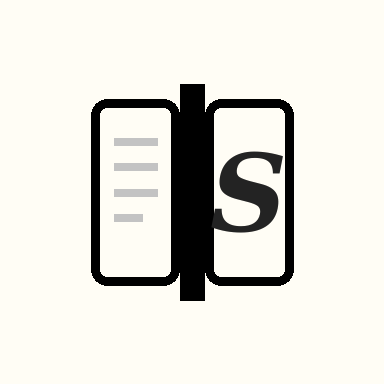
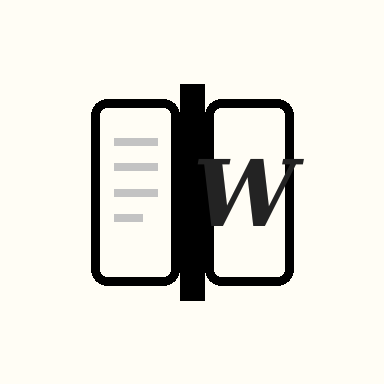
Add files via upload

Changed region(s): [[0.5, 0.375, 0.8125, 0.625]]

diff --git a/index.html b/index.html
@@ -6,13 +6,13 @@
 <meta name="theme-color" content="#FFFDF5"/>
 <meta name="apple-mobile-web-app-capable" content="yes"/>
 <meta name="apple-mobile-web-app-status-bar-style" content="default"/>
-<meta name="apple-mobile-web-app-title" content="Scholarly"/>
+<meta name="apple-mobile-web-app-title" content="WoD"/>
 <meta name="description" content="A beautiful word of the day app to expand your vocabulary"/>
 <link rel="manifest" href="manifest.json"/>
 <link rel="apple-touch-icon" href="icons/icon-192x192.png"/>
 <link href="https://fonts.googleapis.com/css2?family=Newsreader:ital,opsz,wght@0,6..72,300;0,6..72,400;0,6..72,700;1,6..72,300;1,6..72,400;1,6..72,700&family=Inter:wght@300;400;500;600&display=swap" rel="stylesheet"/>
 <link href="https://fonts.googleapis.com/css2?family=Material+Symbols+Outlined:wght,FILL@100..700,0..1&display=swap" rel="stylesheet"/>
-<title>Scholarly — Word of the Day</title>
+<title>WoD — Word of the Day</title>
 <style>
   :root {
     --bg: #FFFDF5;
@@ -274,7 +274,7 @@
 <header class="header">
   <div class="header-brand" onclick="scrollToTop()">
     <span class="material-symbols-outlined" style="font-size:19px">menu_book</span>
-    <h1>Scholarly</h1>
+    <h1>WoD</h1>
   </div>
 </header>
 
@@ -357,9 +357,9 @@ let state = {
   currentIndex: -1, // -1 = today
   showDetails: false,
   speaking: false,
-  favorites: JSON.parse(localStorage.getItem('scholarly_favorites') || '[]'),
-  wordsViewed: JSON.parse(localStorage.getItem('scholarly_viewed') || '[]'),
-  streak: JSON.parse(localStorage.getItem('scholarly_streak') || '[]'),
+  favorites: JSON.parse(localStorage.getItem('wod_favorites') || '[]'),
+  wordsViewed: JSON.parse(localStorage.getItem('wod_viewed') || '[]'),
+  streak: JSON.parse(localStorage.getItem('wod_streak') || '[]'),
 };
 
 function getTodayStr() {
@@ -386,13 +386,13 @@ function trackVisit() {
   const today = getTodayStr();
   if (!state.wordsViewed.includes(today)) {
     state.wordsViewed.push(today);
-    localStorage.setItem('scholarly_viewed', JSON.stringify(state.wordsViewed));
+    localStorage.setItem('wod_viewed', JSON.stringify(state.wordsViewed));
   }
   // Streak
   if (!state.streak.includes(today)) {
     state.streak.push(today);
     if (state.streak.length > 7) state.streak = state.streak.slice(-7);
-    localStorage.setItem('scholarly_streak', JSON.stringify(state.streak));
+    localStorage.setItem('wod_streak', JSON.stringify(state.streak));
   }
 }
 trackVisit();
@@ -533,7 +533,7 @@ function toggleFav() {
   const i = state.favorites.indexOf(w);
   if (i > -1) { state.favorites.splice(i,1); showToast('Removed from favorites'); }
   else { state.favorites.push(w); showToast('Saved to favorites'); }
-  localStorage.setItem('scholarly_favorites', JSON.stringify(state.favorites));
+  localStorage.setItem('wod_favorites', JSON.stringify(state.favorites));
   render(false);
 }
 
@@ -575,7 +575,7 @@ window.addEventListener('beforeinstallprompt', e => {
   document.getElementById('install-container').innerHTML = `
     <div class="install-banner" onclick="installApp()">
       <span class="material-symbols-outlined">download</span>
-      Install Scholarly
+      Install WoD
       <button class="install-dismiss" onclick="event.stopPropagation();document.getElementById('install-container').innerHTML=''">&times;</button>
     </div>
   `;
